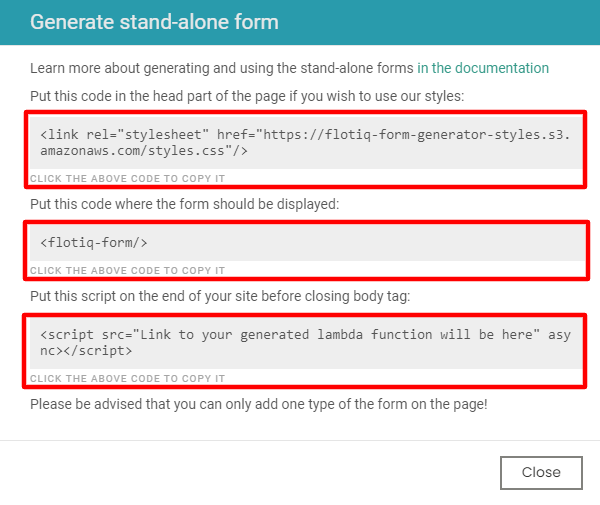
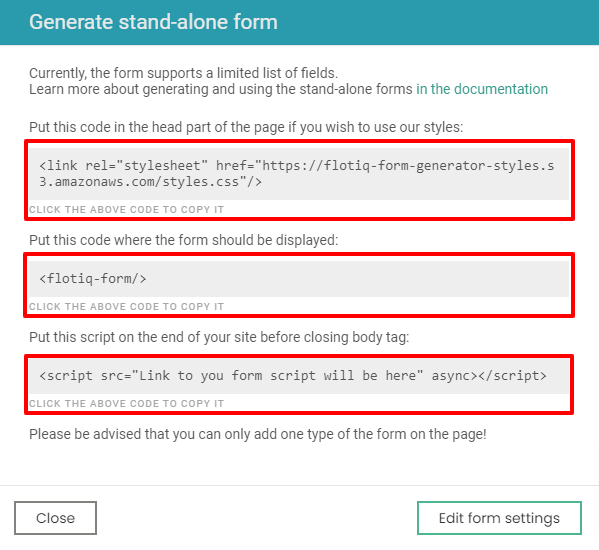
description of advanced settings in generating Flotiq forms

diff --git a/docs/panel/flotiq-forms-add-forms-to-websites.md b/docs/panel/flotiq-forms-add-forms-to-websites.md
@@ -18,20 +18,21 @@ Here are the most important features of Flotiq Forms:
 
 ## Restrictions
 
-Not all type of form fields are supported. The unsupported field types are:
+Not all types of form fields are supported. The unsupported field types are:
 
 - Markdown
 - Rich text
 - List
 - Geo
+- Block
 
 ## How to generate HTML forms
 
-You can generate an HTML form that you can put on any webpage you like. 
-The form will be automatically kept up to date with changes made to the Content Type Definition that this form is linked to. 
+You can generate an HTML form that you can put on any webpage you like.
+The form will be automatically kept up to date with changes made to the Content Type Definition that this form is linked to.
 
 
-Form generation is available in the Content Type Definition edit form. You can generate forms for all of your Content Types, without restrictions.
+Form generation is available in the Content Type Definition edit form. You can generate forms for all of your Content Types without restrictions.
 
 To generate a new stand-alone form click `Generate` button:
 
@@ -40,48 +41,99 @@ To generate a new stand-alone form click `Generate` button:
 It will display a modal where you need to provide some details.
 
 !!! hint
-    There are only two required details you have to provide:
+There are only two required details you have to provide:
 
-    - `Domain` - Forms will only accept data from this domain, put `*` if you want to allow access from anywhere,
+    - `Domain` - Forms will only accept data from this domain; put `*` if you want to allow access from anywhere,
     - `API key` - select the API key you want to use for incoming form submissions.
 
-    As best practice - we advise to enter your domain (without `http://` or `https://`) and create a dedicated, scoped API key that only allows `CREATE` access for the purpose of handling form submissions.
+    As best practice - we advise you to enter your domain (without `http://` or `https://`) and create a dedicated, scoped API key that only allows `CREATE` access to handle form submissions.
 
-Don't worry - your API key is secure. It's not displayed anywhere in the form and is only used internally, for a set of serverless functions, which work under the hood to deliver your Forms. You can always revoke or regenerate the key, in case you have any suspicions it might have been compromised.
+Don't worry - your API key is secure. It's not displayed anywhere in the form and is only used internally for a set of serverless functions, which work under the hood to deliver your Forms. You can always revoke or regenerate the key if you have any suspicions it might have been compromised.
 
 If you use the `Generate new API key` button - a fresh, scoped API key will be created automatically for you, along with the recommended permissions.
 
 
 ![](images/GenerateModal3.png){: .center .border}
 
-When domain and API key are in place, you can click on the `Generate` button. Please be patient; it may take up to a minute to generate the required code.
+When the domain and API key are in place, you can click on the `Generate` button. Please be patient; it may take up to a minute to generate the required code.
+
+You can specify some advanced settings to make the form fit better to your page by clicking the `Advanced` tab before generating the form (but you can always update it later):
+
+![](images/GenerateModal5.png){: .center .border}
+
+### Advanced settings:
+
+#### ReCatpcha settings
+
+Protect your form against bots using reCAPTCHA.
+You need a Google account and registered site
+(you can do that [in Google reCaptcha console](https://www.google.com/recaptcha/admin/create)).
+
+| Setting    | Description                                                                                        |
+| ---------- | -------------------------------------------------------------------------------------------------- |
+| Site key   | We use this key in the HTML code of the form; you can find it in the Google reCAPTCHA settings.    |
+| Secret key | We use this key to verify the request from the form; you can find it in the Google reCAPTCHA settings. |
+
+![](images/reCAPTCHA.png){: .center .width75 .border}
+
+#### File uploads config
+
+If you accept file uploads, you can set allowed mime-types and max files count.
+
+| Setting           | Description                                                                                                                                                                                                                                                                                                                                                                                                                             |
+| ----------------- | --------------------------------------------------------------------------------------------------------------------------------------------------------------------------------------------------------------------------------------------------------------------------------------------------------------------------------------------------------------------------------------------------------------------------------------- |
+| Max files count   | Maximum number of file that user will be able to add in one form submit.                                                                                                                                                                                                                                                                                                                                                                |
+| Allowed mimetypes | Mime types of files user can upload, you can leave that empty if you allow any type of file. Possible mime types are: `image/gif`, `image/png`, `image/jpeg`, `image/bmp`, `image/webp`, `image/svg+xml`, `image/svg`, `image/x-icon`, `image/vnd.microsoft.icon`, `text/plain`, `audio/midi`, `audio/mpeg`, `audio/webm`, `audio/ogg`, `audio/wav`, `video/webm`, `video/ogg`, `video/mp4`, `application/pdf`, and `application/json`. |
+
+#### Messages
+
+Customize messages visible in the form with provided values; you can use it, for example, to translate the messages to the language of your site.
+If no value provided, the default value will be used.
+
+| Setting                  | Description                                                                                                                  | Default                                                           |
+| ------------------------ | ---------------------------------------------------------------------------------------------------------------------------- | ----------------------------------------------------------------- |
+| Field is invalid         | Displayed when the type of inserted value of the filed does not match the type specified in the schema                         | This field is invalid                                             |
+| Field is required        | Displayed when a required field is not filled                                                                                  | This field is required                                            |
+| Choose files prompt      | Text on the upload file button                                                                                               | Choose File(s)                                                    |
+| Submit button            | Text on the submit button                                                                                                    | Send                                                              |
+| Configuration error      | Text displayed when the form has required fields not supported by form generator, displayed when the form has not been sent properly | Form is not configured properly                                   |
+| Form sent message        | Displayed when the form has been sent properly                                                                                   | Form has been sent!                                               |
+| Choose options prompt    | Displayed above options in relations fields                                                                                  | Choose Option(s)                                                  |
+| File upload instructions | Optional instructions displayed above upload file field                                                                      |                                                                   |
+| Duplicated file error    | Displayed when user put the same file twice in upload file field                                                             | One of the added files was already on the list, so it was omitted |
+| File size error          | Displayed when the size of the file exceed the max file size                                                                     | File too big!                                                     |
+| File type error          | Displayed when mime type of the file do not match the mime types specified in form settings or in Flotiq settings            | File has wrong format!                                            |
+| Max files count error    | Displayed when user upload more files than specified in the settings                                                         | Maximum number of files reached                                   |
+| Max upload limit error   | Displayed when the sum of the uploaded files exceeds 4 MB                                                                        | Sum of uploaded files exceeded 4 MB limit                         |
 
 !!! note
-        Flotiq uses Amazon Web Services (AWS Lambda in particular) to deliver Flotiq Forms to our users. AWS provides a global network of secure data centres, which allow us to easily expand our services and provide the best value to our customers. 
+Flotiq uses Amazon Web Services (AWS Lambda in particular) to deliver Flotiq Forms to our users. AWS provides a global network of secure data centres, which allow us to easily expand our services and provide the best value to our customers.
 
 ## How to use Forms
 
 Once your Flotiq Forms are generated, you will see a window with two lines of HTML code. You need to put them inside your HTML page to start immediately collecting data to your Flotiq account.
 
-1. Put the first code - `<link rel="stylesheet" href="https://flotiq-form-generator-styles.s3.amazonaws.com/styles.css"/>` in the `<head>` section of your page, if you wish to use our styles: 
-![](images/FormCssExample.png){: .center .border}
-1. Put the second code - `<flotiq-form/>` in your page, wherever you want the form to be displayed. 
+1. Put the first code - `<link rel="stylesheet" href="https://flotiq-form-generator-styles.s3.amazonaws.com/styles.css"/>` in the `<head>` section of your page, if you wish to use our styles:
+   ![](images/FormCssExample.png){: .center .border}
+1. Put the second code - `<flotiq-form/>` in your page, wherever you want the form to be displayed.
 1. Paste the third line - `<script ... ></script>` at the end of your HTML, just before the  `</body>` tag.
 
 ![](images/GenerateModal4.png){: .center .border}
 
+You can edit all settings of your form by clicking the `Edit form settings` button.
+
 !!! note
-    Please be advised that as for now you can add only one type of the form on a page. 
-    If you wish to use more than one form, you have to put them on different sub-pages.
+Please be advised that, as for now, you can add only one type of form on a page.
+If you wish to use more than one form, you have to put them on different sub-pages.
 
 ## Media
 
-Media relations are handled as a file upload. Sum of files sizes cannot exceed 4MB. You can allow multiple file upload by 
+Media relations are handled as a file upload. The Sum of files sizes cannot exceed 4MB. You can allow multiple file uploads by
 checking `multiple` option in media relation filed in Content Type Definition settings, which form was generated for.
 
 ## Other relations
 
-Other relations are displayed as a checkbox or radio button group, determined by `multiple` option in relation field in Content Type Definition settings, which form was generated for.
+Other relations are displayed as a checkbox or radio button group, determined by the `multiple` option in the relation field in Content Type Definition settings, which form was generated for.
 
 Single relations display example:
 ![](images/single-relation-display-example.png){: .center .border}
@@ -91,10 +143,7 @@ Multiple relations display example:
 ![](images/multiple-relations-display-example.png){: .center .border}
 
 !!! note
-    Your relation Content Type Definition must have `name` attribute to display properly!
-
-!!! note
-    You can display only existing relations. You cannot make user add one by form.
+You can display only existing relations. You cannot make users add one by form.
 
 ## Working example
 
